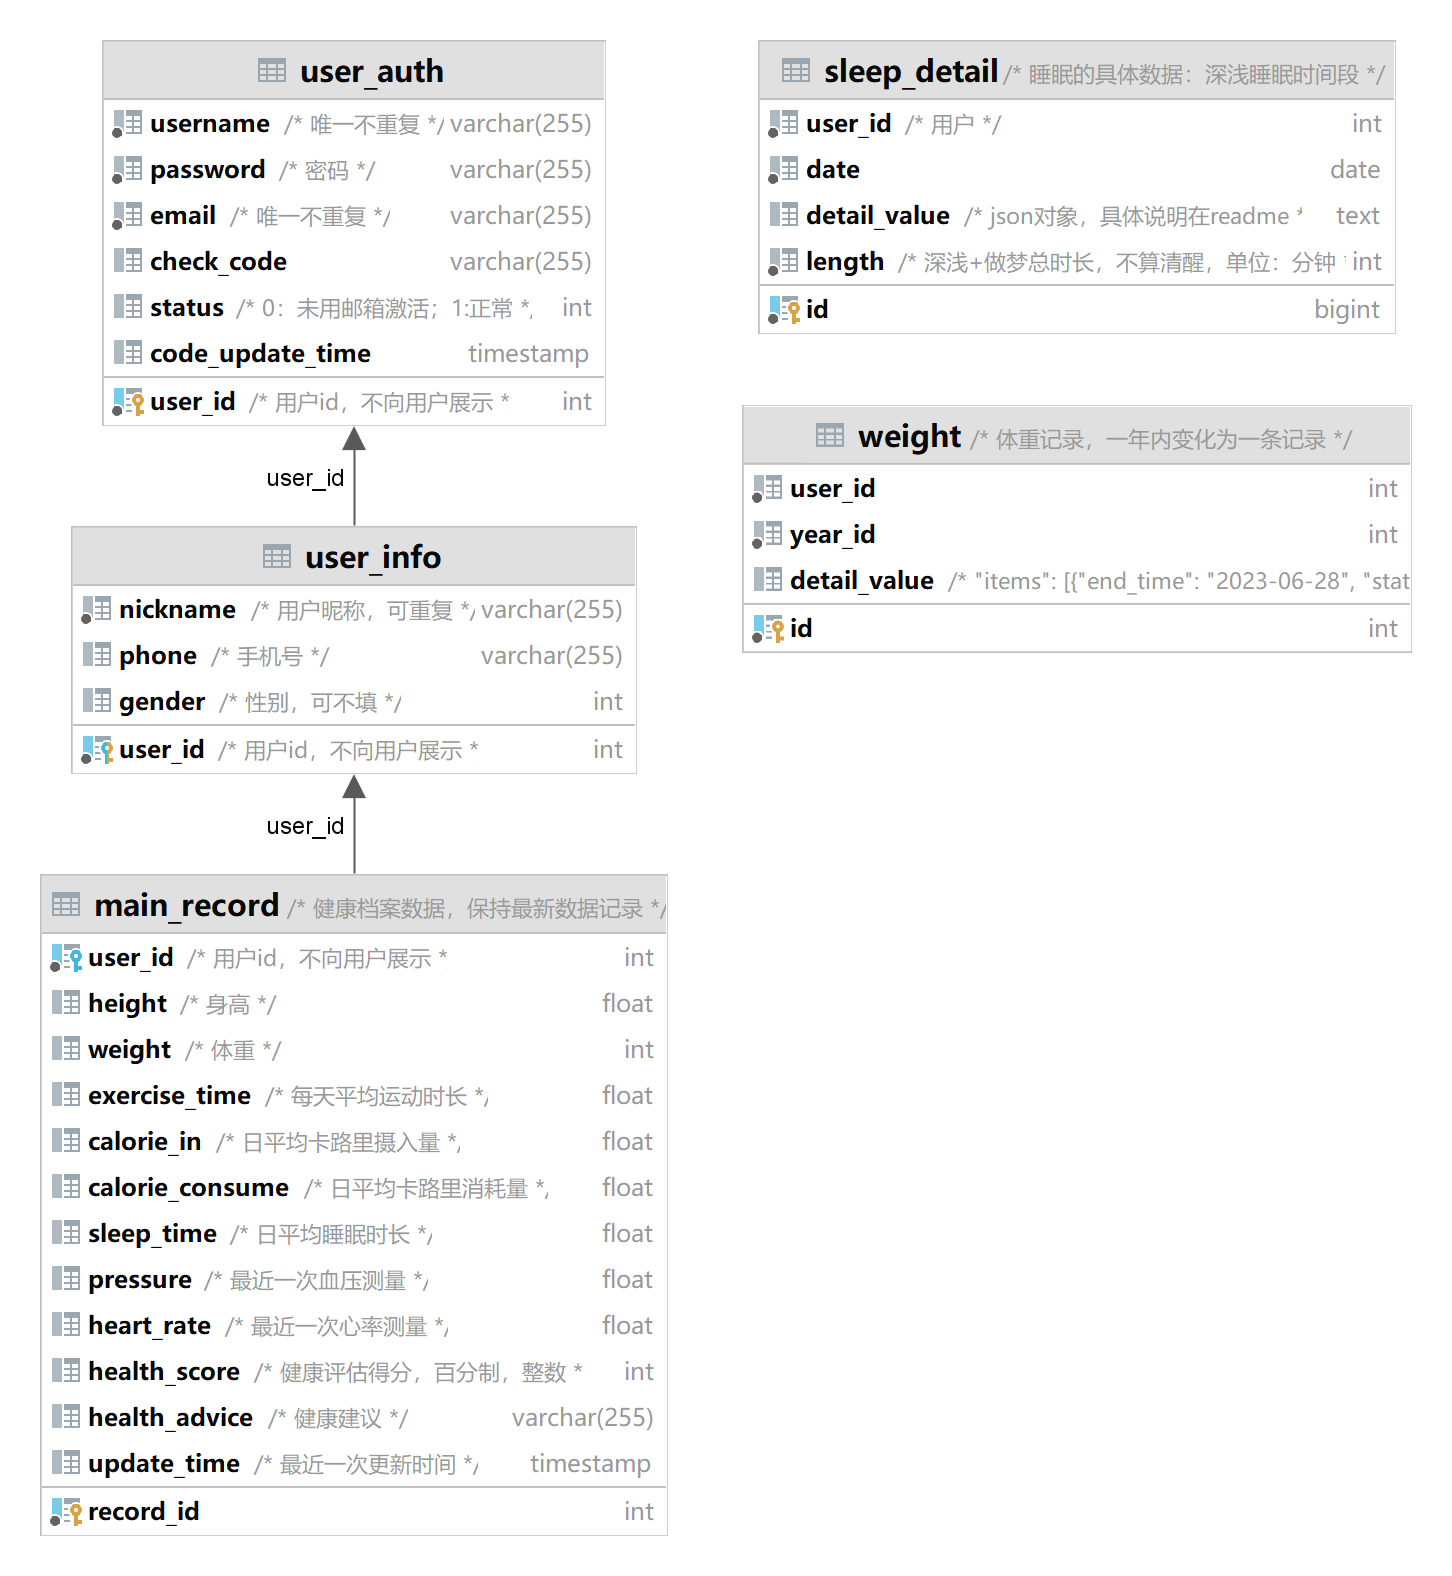
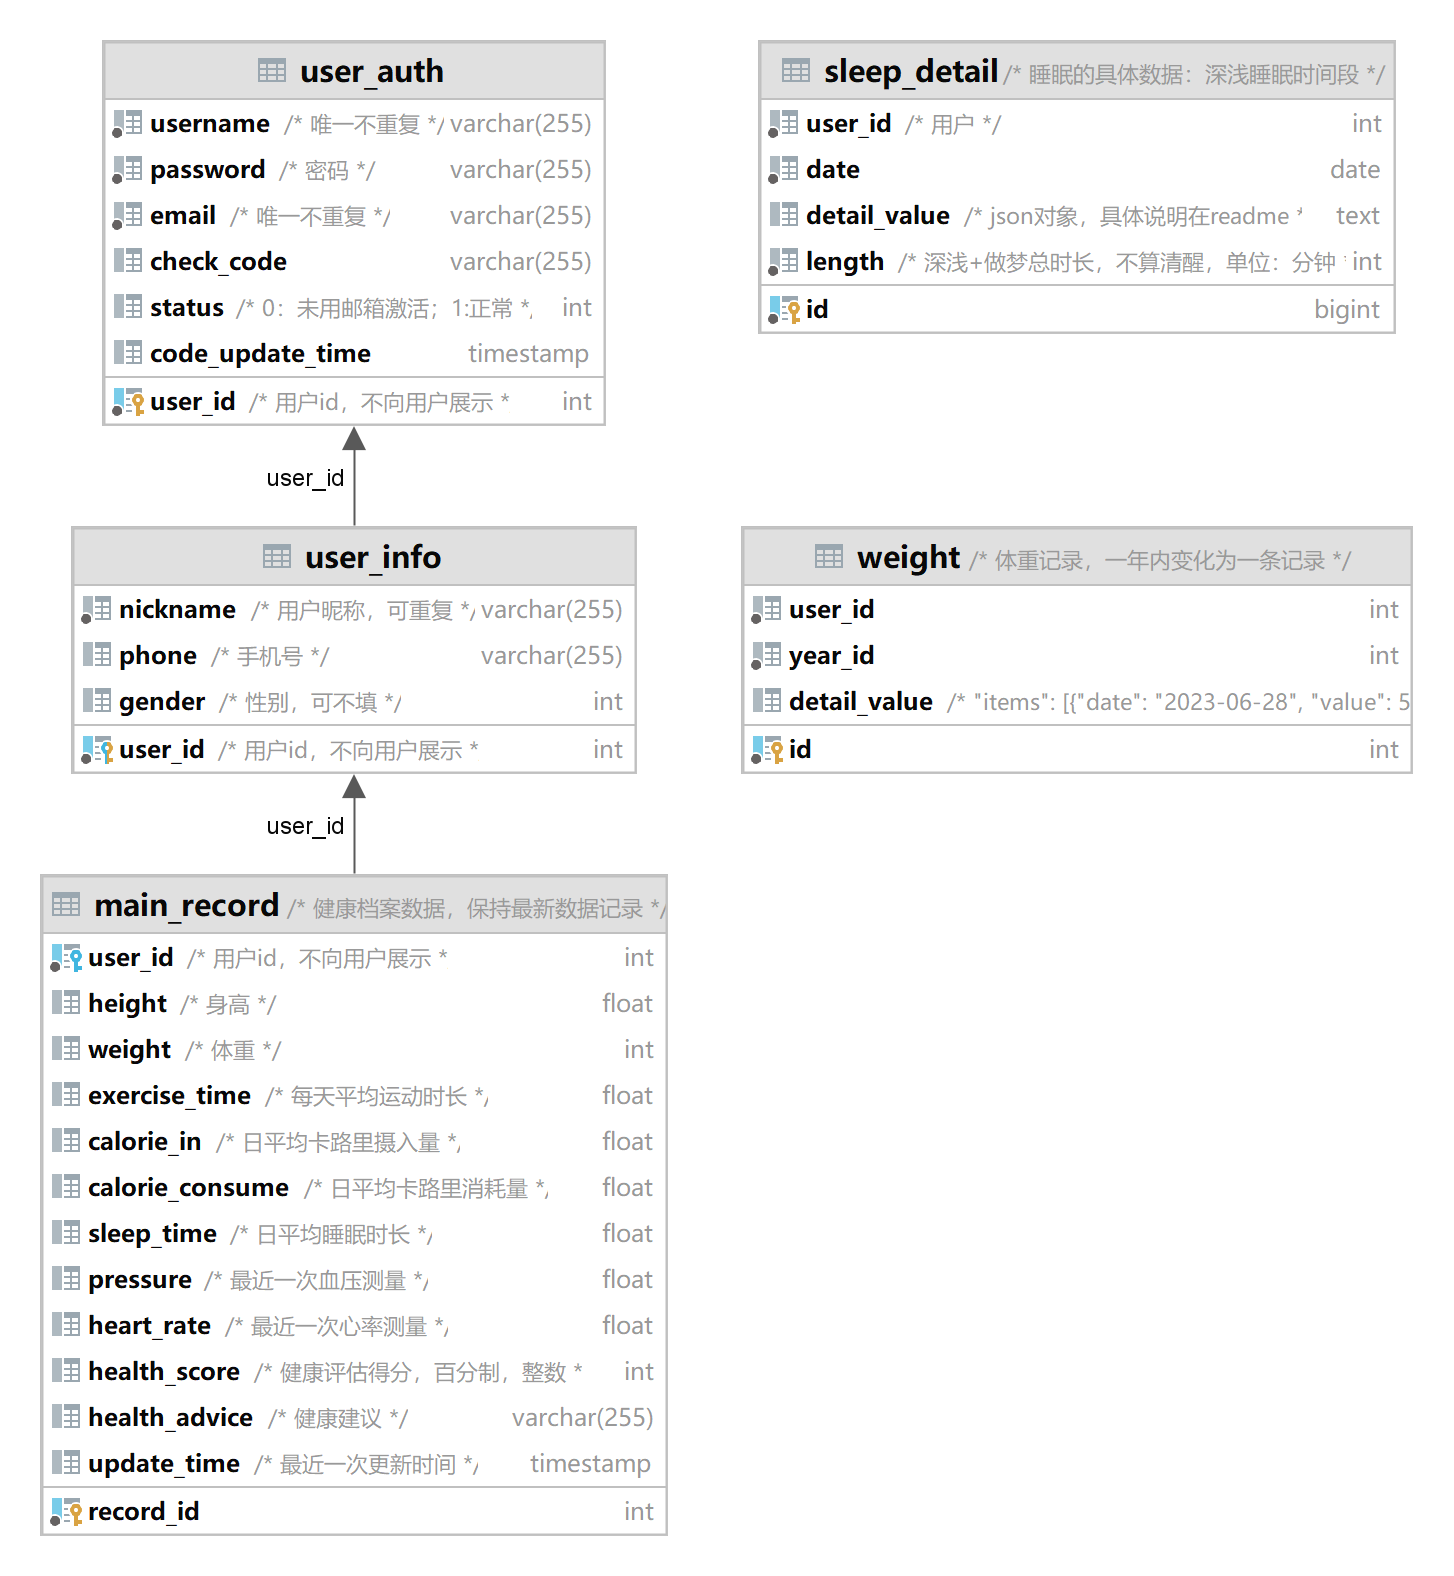
=获取体重记录

diff --git a/src/main/java/com/alive_backend/serviceimpl/health_data/WeightServiceImpl.java b/src/main/java/com/alive_backend/serviceimpl/health_data/WeightServiceImpl.java
@@ -9,7 +9,9 @@ import org.springframework.beans.factory.annotation.Autowired;
 import org.springframework.stereotype.Service;
 
 import java.sql.Date;
+import java.time.Year;
 import java.util.ArrayList;
+import java.util.Calendar;
 import java.util.List;
 
 @Service
@@ -20,13 +22,12 @@ public class WeightServiceImpl implements WeightService {
     @Override
     public List<Weight> getWeight(int id, Date date1, Date date2) {
         List<Weight> weightList = new ArrayList<>();
-        int year1, year2;
-        try {
-            year1 = date1.getYear();
-            year2 = date2.getYear();
-        } catch (Exception e) {
-            throw new RuntimeException("日期格式错误");
-        }
+        Calendar c = Calendar.getInstance();
+        c.setTime(date1);
+        int year1 = c.get(Calendar.YEAR);
+        c.setTime(date2);
+        int year2 = c.get(Calendar.YEAR);
+
         for (int i = year1; i <= year2; i++) {
             Weight weight = weightDao.getWeightByYear(id, i);
             weightList.add(weight);
@@ -35,7 +36,9 @@ public class WeightServiceImpl implements WeightService {
             if(weight==null)
                 continue;
             JSONObject jsonObject = JSONObject.fromObject(weight.getDetailValue());
-            JSONArray jsonArray = jsonObject.getJSONArray("items");
+            System.out.println(jsonObject);
+            System.out.println(jsonObject.get("item"));
+            JSONArray jsonArray = JSONArray.fromObject(jsonObject.get("item"));
             JSONArray updatedJsonArray = new JSONArray();
             for(int i=0;i<jsonArray.size();i++){
                 JSONObject jsonObject1 = jsonArray.getJSONObject(i);
@@ -44,7 +47,7 @@ public class WeightServiceImpl implements WeightService {
                 if(date_.compareTo(date1)>=0 && date_.compareTo(date2)<=0)
                     updatedJsonArray.add(jsonObject1);
             }
-            jsonObject.put("items",updatedJsonArray);
+            jsonObject.put("item",updatedJsonArray);
             weight.setDetailValue(jsonObject.toString());
         }
         return weightList;

diff --git a/README.md b/README.md
@@ -56,21 +56,25 @@ table：user，userAuth
     "email":"test@sjtu.edu.cn"
   }
   ```
-```
-  
-**TODO**：邮箱发送信息（**目前默认验证码都是123456**）
-  
+
+
+
+
+	**TODO**：邮箱发送信息（**目前默认验证码都是123456**）
+
 - [x] **"/register"**
 
   注册第二步：验证邮箱验证码
-
-  ```javascript
-@RequestBody：
-  {
-    "username": "test",
-      "check_code":"123456"
-}
-```
+  
+  ```json
+  @RequestBody：
+    {
+      "username": "test",
+        "check_code":"123456"
+  }
+  ```
+  
+  
 
 #### 1.2 用户资料的增删改
 
@@ -79,34 +83,91 @@ table：user，userAuth
 1. > table：latest_record、weight、pressure、sleep.....
 
 2. **健康档案**服务：
+  
    1. 个人健康档案的**创建、更新、查询**
-   2.   接口：`ModifyRecord` , `GetRecord`, `GetRecordByDate`
-
+2.   接口：`ModifyRecord` , `GetRecord`, `GetRecordByDate`
+  
    3. **档案健康分析**
       1.    接口：`GetHealthCondition`,`GetHealthAdvice`
    
-3. **饮食记录**服务：
+3. **体重**记录
+  
+   - [x] **"/weight"**
+
+     获取一段时间内的体重
+   
+     ```json
+     @RequestBody
+     {
+         "user_id": 1,
+         "start_date":"2023-06-10",
+         "end_date":"2023-06-29"
+     }
+     
+     @Return
+     {
+         "status": 1,
+         "msg": "成功！",
+         "data": {
+             "weight": [
+                 {
+                     "detailValue": {
+                         "item": [
+                             {
+                                 "date": "2023-06-21",
+                                 "value": 58.8
+                             }
+                         ]
+                     },
+                     "id": 1,
+                     "userId": 1,
+                     "yearId": 2023
+                 }
+             ]
+         }
+     }
+     ```
+   
+   - [ ] **"/add_weight"**
+   
+     增加体重记录，一天内重复数据**覆盖**
+   
+     ``` json
+     @RequestBody
+     {
+         "user_id": 1,
+         "date":"2023-06-10",
+         "weight":59.1
+     }
+     @Return
+     // TODO
+     ```
+   
+     
+   
+4. **饮食记录**服务：
+
    1. **记录饮食**情况（输入饮食种类），后端计算卡路里摄入量
    2.   接口：`AddMeal`
 
    3. **饮食情况分析**，用户查询饮食、卡路里摄入，健康建议，推荐食谱
       1.    接口：`GetMeal`,`GetCalorieIn`,`GetRecipe`,`GetRecipeAdvice`
-   
-4. **运动记录**服务：
+
+5. **运动记录**服务：
    1. **记录运动**情况（输入类型），后端计算卡路里消耗量
       1.    接口：`AddSport`s
    2. **运动情况分析**，用户查询运动、卡路里消耗，健康建议
       1.    接口：`GetSports`,`GetCalorieOut`,`GetSportsAdvice`
-   
-5. **睡眠记录**服务：
-  
+
+6. **睡眠记录**服务：
+
    - [x] **"/day_sleep"**
 
      	当天睡眠详细数据
-   
+
      	bedtime位于：20：00 - 8：00的算作当天（20：00那天）
      
-     ```java
+     ```json
      @Reques： 
      {
          "user_id": 1,
@@ -154,15 +215,15 @@ table：user，userAuth
          }
      }
      ```
+
    
-   
-   
+
    1. **记录睡眠**情况：从手环、手机获取，手动输入
    2. 接口：`AddSleep`
    3. **睡眠分析** ：查询睡眠、分析睡眠，健康建议
    4. 接口：`GetSleepByDate`,`GetSleepAdvice`
-   
-6. **数据分析**服务：所有的分析计算工作放在这里，别处的分析服务只是把数据发个这个接口
+
+7. **数据分析**服务：所有的分析计算工作放在这里，别处的分析服务只是把数据发个这个接口
    1. **特定类别数据**分析：供其他微服务调用，获取数据+数据类型，返回分析建议。推荐行为。
    2.   接口：`GetAdvice`,`GetRecommend`
 
